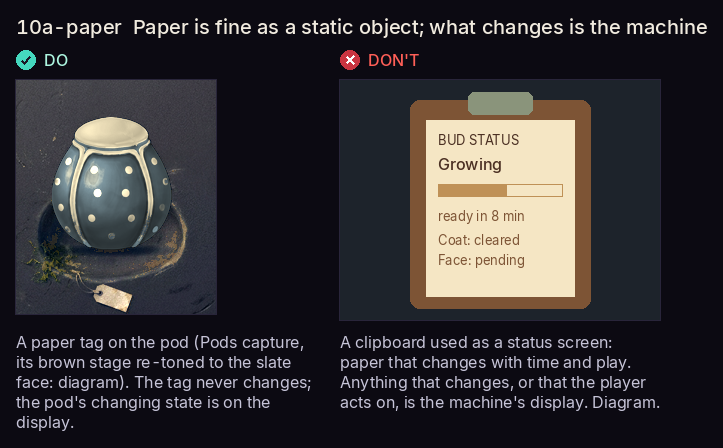
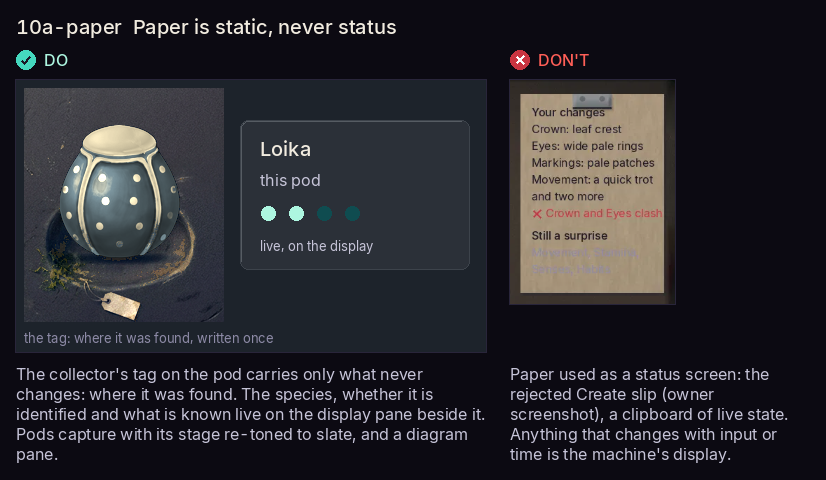
Style guide: provisional, below the art direction; the pod's tag carries only where it was found; plate 10a pairs the tag with the display

diff --git a/design/style-guide/plates/make-plates.py b/design/style-guide/plates/make-plates.py
@@ -573,22 +573,22 @@ def slate_stage(img, lum_max=120):
             if r >= b + 5 and r - b <= 40 and (r + g + b) / 3 < lum_max and not (g > r):
                 px[x, y] = (max(0, min(255, P[0] + r - M[0])), max(0, min(255, P[1] + g - M[1])), max(0, min(255, P[2] + b - M[2] + 6)), a)
     return im
-do = slate_stage(crop('pods-kin.png', (160, 222, 200, 234)))
-dont = canvas(320, 240)
-d = ImageDraw.Draw(dont)
-d.rounded_rectangle((70, 20, 250, 228), 10, fill=C['bark'])
-d.rectangle((86, 40, 234, 216), fill=C['paper'])
-d.rounded_rectangle((128, 12, 192, 34), 6, fill=C['metal'])
-text(d, (98, 52), 'BUD STATUS', F13, 'soil')
-text(d, (98, 74), 'Growing', F16M, 'soil')
-d.rectangle((98, 104, 222, 116), outline=C['clay'])
-d.rectangle((99, 105, 99 + int(122 * 0.55), 115), fill=C['clay'])
-text(d, (98, 128), 'ready in 8 min', F13, 'bark')
-text(d, (98, 152), 'Coat: cleared', F13, 'bark')
-text(d, (98, 172), 'Face: pending', F13, 'bark')
-plate('10a-paper', 'Paper is fine as a static object; what changes is the machine', do, dont,
-      'A paper tag on the pod (Pods capture, its brown stage re-toned to the slate face: diagram). The tag never changes; the pod\'s changing state is on the display.',
-      'A clipboard used as a status screen: paper that changes with time and play. Anything that changes, or that the player acts on, is the machine\'s display. Diagram.')
+pod = slate_stage(crop('pods-kin.png', (160, 222, 200, 234)))
+do = canvas(470, 272)
+do.alpha_composite(pod, (8, 8))
+d = ImageDraw.Draw(do)
+pane(d, 224, 40, 230, 150)
+text(d, (244, 56), 'Loika', F20)
+text(d, (244, 90), 'this pod', F16, 'fog')
+for k in range(4):
+    x = 252 + k * 28
+    d.ellipse((x - 7, 126, x + 7, 140), fill=C['mint' if k < 2 else 'tealD'])
+text(d, (244, 158), 'live, on the display', F13, 'fog')
+text(d, (8, 250), 'the tag: where it was found, written once', F13, 'mist')
+dont = src('2026-10-17-create-slip.png')
+plate('10a-paper', 'Paper is static, never status', do, dont,
+      'The collector\'s tag on the pod carries only what never changes: where it was found. The species, whether it is identified and what is known live on the display pane beside it. Pods capture with its stage re-toned to slate, and a diagram pane.',
+      'Paper used as a status screen: the rejected Create slip (owner screenshot), a clipboard of live state. Anything that changes with input or time is the machine\'s display.')
 
 # ---------------------------------------------------------------- 11 companion
 hb = Image.open('art/miniature-lives/assets/hibit-plain-280x300.png').convert('RGBA')

diff --git a/design/style-guide/README.md b/design/style-guide/README.md
@@ -1,6 +1,8 @@
 # Style guide
 
-**The one binding guide to how the Station and the Companion look.** A builder or artist with a visual ticket finds the look here and invents nothing. If something they need is not here, they stop and park the ticket to the art director with the exact gap ([§11](#11-how-to-use-it)).
+> **Provisional.** This is the current implementation reference for the screens as built. It follows the prototypes as they iterate, and the owner's direction overrides it. The general look and feel it serves is the [art direction](../art-direction.md).
+
+**The reference builders and artists follow for how the Station and the Companion look.** A builder or artist with a visual ticket finds the look here and invents nothing. If something they need is not here, they stop and park the ticket to the art director with the exact gap ([§11](#11-how-to-use-it)).
 
 **Who wrote it.**
 - The art director wrote the visuals: palette, materials, light, components, type, icons and layout.
@@ -30,7 +32,7 @@ Both devices are rugged, matte field gear: sage powder-coat, dark rubber and scr
 
 **The three sentences every screen obeys.**
 1. **The life leads.** The creature, pod or place is the subject: big, lit and grounded. The device frames it and never competes with it.
-2. **The machine shows what changes.** Anything that changes with input or time, or that the player acts on, is on the machine's own display, lamps or moving parts. Paper is fine as a static object (a tag on a pod, the Library's book), never as an interactive part of the device.
+2. **The machine shows what changes.** Anything that changes with input or time, or that the player acts on, is on the machine's own display, lamps or moving parts. Paper, tags and labels may appear anywhere if they never change while on screen; they are never an interactive part of the device.
 3. **Pictures before words.** An outcome, a state or a meaning is a picture or a sculpted mark. Words name things; they never explain them.
 
 **Why the rejected Incubator, Cargo report and Return panel failed** (plate 01, right). They broke all three sentences:
@@ -97,7 +99,7 @@ Body type needs 4.5 : 1 or more, so:
 
 <img src="plates/02b-colour-panel.png" width="760" alt="Plate 02b: slate panes, not brown"> <img src="plates/02c-colour-progress.png" width="660" alt="Plate 02c: progress in device light">
 
-**Forbidden, everywhere on the Station except the Library:**
+**Forbidden on the Station** (the Library's book keeps its warm paper and boards):
 - **Brown on brown.** No `bark`, `soil`, `clay`, wood or leather as a panel, card, stage wall or field. The display field is `ground`, and the painted stage behind an instrument is the display's slate, never a brown wall.
 - **Cream panels.** No `paper`, `cream` or `sand` fill on a panel, card, plate, slip or bar. Cream never draws progress.
 - **Orange for anything but the action.** No orange decoration, bars or frames.
@@ -243,7 +245,7 @@ A picture or a mark the screen already uses beats a word. Stand-in text at the l
 | Family | Purpose (one sentence) | Reads first | Direction | Plates |
 | --- | --- | --- | --- | --- |
 | **Home, Vivarium, Idle, a mibi up close** | The collection alive, kept by the device | the residents, then what needs you | Kept as accepted: the warm painted vivarium leads. The only change is their panes, which take the one slate pane (§4 Pane), so they lose only their brown | 01 |
-| **Pods** (the sample case) | The pods you brought home, and what you know of each | the pod, lit in its fitted cut-out | The instrument family pass: the brown stage becomes the slate face, the inner riveted bezel goes, each pod sits in a recess with its contact shadow, the side panes are the slate pane. A static paper tag on the pod may stay; what changes is on the display. No floating labels, no line under 16 px | 03b, 10a |
+| **Pods** (the sample case) | The pods you brought home, and what you know of each | the pod, lit in its fitted cut-out | The instrument family pass: the brown stage becomes the slate face, the inner riveted bezel goes, each pod sits in a recess with its contact shadow, the side panes are the slate pane. The pod's tag returns as the collector's label: only where it was found, written once; species, identification and knowledge are on the display pane. No floating labels, no line under 16 px | 03b, 10a |
 | **Create** (the gene bench) | Shape your mibi's genes before it grows, and see what you changed | the founder, big and lit, then the changed marks | The genome is G2's rack with the body answering in light. The founder stands big and lit in a scanning recess of the slate face; beside it one column of rows is the machine's readout: each row headed by a crop of this founder's own part (or a doing's behaviour picture) and its one word, each gene a picture of the look it makes in a lit socket. Focusing a row or gene lights that part on the founder in `mint` scan light; a turn changes the founder in the same beat. The genes are the controls; the drum tray goes. No leader lines, no lilac field | 04e, 07a |
 | **Incubator** (candling) | "The life you designed on Create is being grown here, and each time you look it is further along and you know more about it" | the candled pod, the founder forming inside | The candling chamber: the player's own pod (its species shell) held upright in a clamp, in a recess of the slate face, behind clear matte-edged glass. The machine's lamp shines up through the shell in device light, not cream; the known parts show in colour through the shell and the unknown stay frost; the light stays within the chamber. The `mint` ring with chapter studs, and "ready in about n min" in the bottom line. A cleared chapter lights its stud and shows the founder's own part large in the side pane (or a behaviour moment for a doing), with plain words. G2's genome compact in the side column; the stamp on the display. No moss, cushion, plinth, egg, glow or plaque | 02c, 03b, 03c, 03d |
 | **Cargo** (the receiving bay) | "What your trip brought home arrives here: you open each crate and see what came back and where each thing goes" | the open crate and its contents | C2, crate by crate: the bay is the machine's slate face, floor and door. Each crate with its place badge (32 px or more) opens in turn by itself, skippable; ✓ takes everything at once. Its contents lie in front as things (pods as their shells, cells, cartridges, vials, finds). The materials fly into the top bar's counters, which tick; there are no store tanks. The pods go out through the Pods hatch; with no free well they wait sealed on the bay floor. No colour bars, rack, materials row, goal line, reach, world rows or cream ribbon plate | 06a |
@@ -418,7 +420,7 @@ Numbers appear only as prices, supplies and counts beside their icon, and as the
 | [07a-layout](plates/07a-layout.png) | the frame and the grid |
 | [07b-companion-frame](plates/07b-companion-frame.png) | the Companion's frame, at 1:1 |
 | [09a-motion](plates/09a-motion.png) | motion timings |
-| [10a-paper](plates/10a-paper.png) | paper is static; what changes is the machine |
+| [10a-paper](plates/10a-paper.png) | paper is static, never status |
 | [11a-companion-hibit](plates/11a-companion-hibit.png) | HiBit creatures |
 | [11b-companion-type](plates/11b-companion-type.png) | Mibi type at 2× |
 
@@ -452,7 +454,7 @@ Numbers appear only as prices, supplies and counts beside their icon, and as the
 - **One pane, no plate pictures:** Home's modules, the mibi's card and modules, the strip and its tile wells, the namer, the Probe bench's Mend and Upgrade, Compare's pages and every decision panel are the one flat slate pane (§4 Pane), with `ground` wells (§4 Tile). The painted plates (`plate-device-*`, `plate-well-*`, the cargo report plate, `label-plate-cream`, the stamp case plaque) are retired as pictures. The stamp is drawn on the display (§4 Stamp).
 - **Flat panels on the art layer:** the device's panels (bars, panels, panes, tabs and rings) are flat fills with one bevel of light and 1 px hairlines, never dithered and never painted. The layers are in [Station screens, Palette and layers](station-screens.md#palette-and-layers).
 - **Field gear that keeps life going.** The Station is the Companion's sibling, made by the same maker; both dock into the Caddy. The screen is the Station's own face, never a picture of a room with a device in it.
-- **A lab, a genome-editing machine.** The Station is a lab, never a desk. Its research screens are advanced research and crafting benches where you edit life: instruments of the lab, not a craftsman's workbench. Information shows on the machine: its displays, lamps, readouts and moving parts. Anything that changes with the player's input or with time, or that the player acts on, is on the device's own display, never paper, print or a tag. Paper may appear anywhere as a static object that never changes while it is on screen, such as a paper tag on a pod; a clipboard never becomes a status screen (plate 10a).
+- **A lab, a genome-editing machine.** The Station is a lab, never a desk. Its research screens are advanced research and crafting benches where you edit life: instruments of the lab, not a craftsman's workbench. Information shows on the machine: its displays, lamps, readouts and moving parts. Anything that changes with the player's input or with time, or that the player acts on, is on the device's own display, never paper, print or a tag. Paper, tags and labels may appear anywhere if they never change while on screen; a clipboard never becomes a status screen (plate 10a). On Pods, the pod's tag is the collector's label tied to it, and carries only what is fixed from pickup: where it was found, as the place's mark or name, written once. The species, whether it is identified and what is known stay on the display pane. A tag never carries a state, a count or a mark that moves.
 - **Rugged, matte, handled.** Sage and sand housing, dark rubber, screws, engraved marks; powder-coat, rubber, moulded polymer, canvas, braided hose. Inside the frame, dark matte slate panels and `bone` type; orange for the action only (§2).
 - **Cozy, tethered to its tech.** The equipment that keeps the life going is visible and works for it: feed lines, vents, misters, small gauges, grow lamps. Cozy, never clinical, never hidden.
 - **The vivarium is the most alive thing on the screen,** Miniature Lives in warm daylight, and the eye goes there first.

diff --git a/design/style-guide/station-screens.md b/design/style-guide/station-screens.md
@@ -41,7 +41,7 @@ The player always knows which level a screen is about. The Library, the Book and
 | Feels | rugged, handled, calm; working for the life | warm, soft, alive |
 | Light | the same warm daylight from the top left, caught softly; nothing glows for show | the warm key light from the top left, by the time of day |
 | Colour | sage and sand housing, dark rubber, dark matte slate panels, `bone` type, orange for the action only, small lamps in device light (`mint`, `amber`). Never brown panels or cream fills ([§2](README.md#2-palette)) | greens, warm earth, water, the creatures' own colours |
-| Materials | powder-coat, rubber, moulded polymer, canvas, braided hose; paper only as a static object (a pod's tag, the Library's book), never for what changes | plants, soil, stone, water, fur and leaf |
+| Materials | powder-coat, rubber, moulded polymer, canvas, braided hose; paper, tags and labels only where they never change on screen (a pod's tag, the Library's book) | plants, soil, stone, water, fur and leaf |
 | Moves | the life-support works quietly (a mister, a lamp, a feed line); controls move when something happens | all the time |
 | Words | a few per section | none |
 
@@ -58,7 +58,7 @@ One device. Every section is a part of it, in the same materials and light. Home
 | Section | What it is on the device |
 | --- | --- |
 | **Vivarium** (Home, idle, one mibi up close) | The living world the device keeps; up close, a mibi at home, never a specimen on display |
-| **Pods** | The sample case: pods in fitted, worn cut-outs, a static paper tag on each pod; what changes is on the machine's display |
+| **Pods** | The sample case: pods in fitted, worn cut-outs, each pod with its collector's tag (only where it was found); its species and what is known on the machine's display |
 | **Research** (Create, Cross and Wish, Probe bench) | The lab's advanced research and crafting benches, where you edit life: the gene bench (Create), the splicer (Cross and Wish), the Probe's service dock; what is under study in the device's light, its state on the machine's own displays and lamps |
 | **Incubator** | The bridge between research and the vivarium: the player's own pod candled by an instrument of the machine, the founder showing through its shell in the device's light. No moss nest, no egg |
 | **Library** | The field journal the device keeps: a worn botanical expedition volume |
@@ -151,7 +151,7 @@ The measured layout, states and timeline are [Station layouts, Cargo](station-la
 >
 > **Look.** The sample case: pods in fitted cut-outs set into the slate instrument face, lit from the top left with contact shadows; the rail and rings in device light; the name and state on a display pane.
 >
-> **Do:** the pod lit and grounded in its cut-out (03b); a static paper tag on the pod, its changing state on the display (10a); progress in `mint` (02c). **Don't:** paper that changes with play (10a); a brown painted wall behind the case (02b); glyphs under 24 px carrying meaning (04d).
+> **Do:** the pod lit and grounded in its cut-out (03b); the collector's tag on the pod carrying only where it was found, its species and knowledge on the display pane (10a); progress in `mint` (02c). **Don't:** a tag that carries a state, a count or a moving mark (10a); a brown painted wall behind the case (02b); glyphs under 24 px carrying meaning (04d).
 
 **Vibe.** Pods: the sample case.
 
